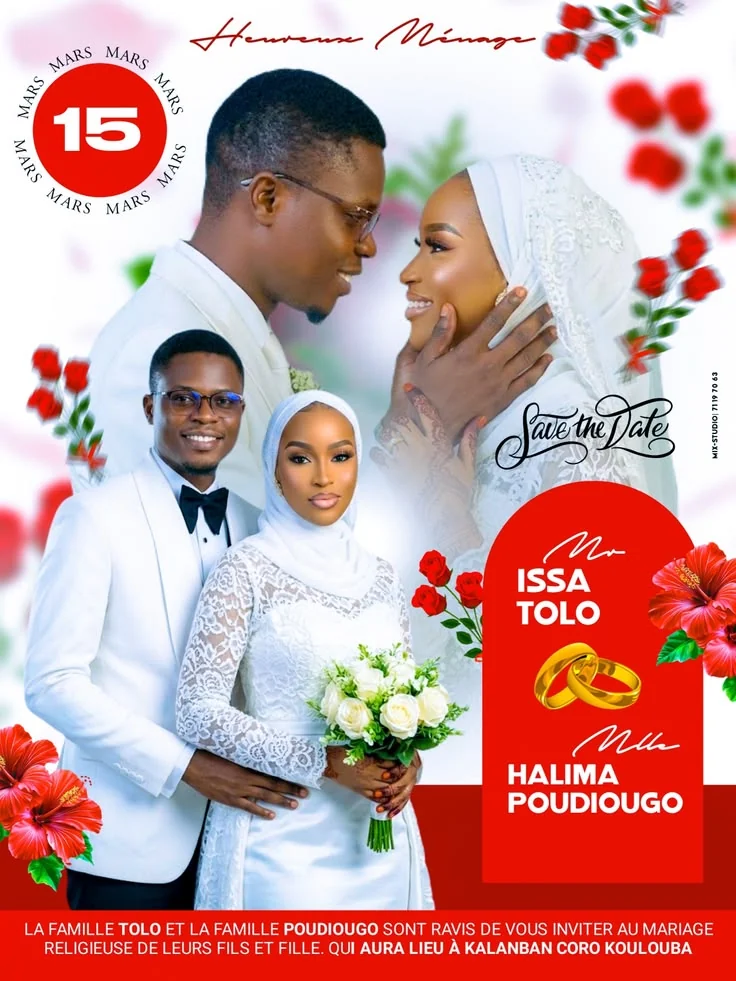
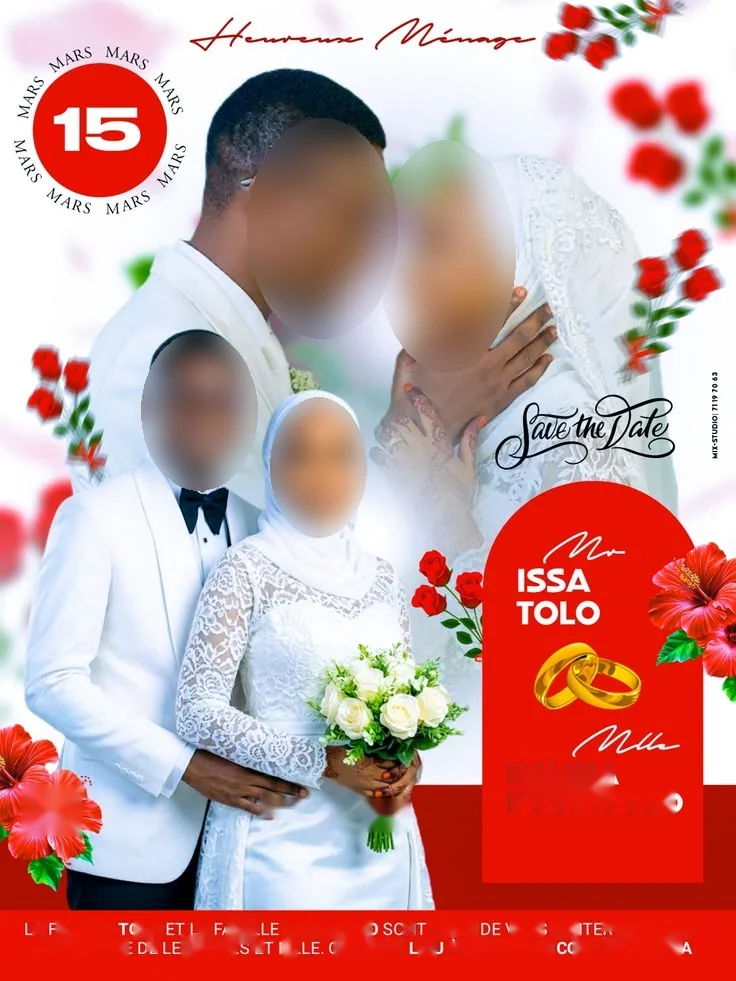
feat: anonymize domain posters and match the burger example
Strip real names, phones, dates and venues from the gallery, blur recognizable faces, and replace the delivery-based burger with the fast-food reference.

diff --git a/src/app/decouvrir/page.tsx b/src/app/decouvrir/page.tsx
@@ -76,7 +76,7 @@ export default function DiscoverPage() {
             <VisualPoster key={poster.id} title={poster.label} subtitle={poster.domaine} imageSrc={poster.src} />
           ))}
         </div>
-        <p className="text-sm text-slate-500">Chaque visuel est la référence de son dossier, affichée telle quelle.</p>
+        <p className="text-sm text-slate-500">Chaque visuel reprend la référence de son dossier, sans nom, numéro ni date réelle.</p>
       </section>
 
       <section className="grid gap-4 lg:grid-cols-2">
@@ -87,13 +87,13 @@ export default function DiscoverPage() {
             <div className="rounded-2xl border border-dashed border-slate-200 bg-slate-50 p-4">
               <p className="text-[11px] font-semibold uppercase tracking-wide text-slate-400">Avant</p>
               <p className="mt-3 font-mono text-sm leading-relaxed text-slate-500">
-                Promo ce weekend, burger + boisson, 5000 FCFA, appelle ce numero.
+                Fast food, burgers, pizzas, paninis, sur place ou à emporter, appelle ce numero.
               </p>
             </div>
             <VisualPoster
-              title="PROMO CE WEEKEND"
-              subtitle="Burger + boisson"
-              meta="5 000 FCFA"
+              title="BURGERS"
+              subtitle="Sur place ou à emporter"
+              meta="Avenue des Manguiers"
               imageSrc="/creations/promo-burger.webp"
               className="min-h-[220px]"
             />

diff --git a/src/app/creations/page.tsx b/src/app/creations/page.tsx
@@ -17,7 +17,7 @@ export default function CreationsPage() {
         <div>
           <h1 className="text-3xl font-extrabold">Créations</h1>
           <p className="mt-2 max-w-xl text-slate-600">
-            {posters.length} domaines. Chaque affiche est la référence choisie dans son dossier Supabase, sans redessin : même image, même texte, même police, même fond.
+            {posters.length} domaines. Chaque affiche garde la photo et la composition de sa référence. Les noms, numéros, dates et lieux réels sont retirés. Les visages, surtout celui de l’anniversaire, sont floutés.
           </p>
         </div>
         <Link href="/create" className="btn-primary">
@@ -37,7 +37,7 @@ export default function CreationsPage() {
         ))}
       </div>
       <p className="text-sm text-slate-500">
-        22 dossiers. Aucune de ces affiches n’a été redessinée.
+        22 dossiers. Les coordonnées personnelles des références ne sont pas affichées.
       </p>
     </div>
   );

diff --git a/src/components/payment-button.tsx b/src/components/payment-button.tsx
@@ -46,7 +46,7 @@ export function CheckoutForm({ planCode, planName, priceFcfa, mintAmount }: Prop
         </p>
       </div>
       <p className="text-sm text-slate-600">
-        La page Money Fusion demande ensuite le pays et le numéro, puis le moyen de paiement.
+        La page Money Fusion demande le pays, puis les moyens de ce pays. La France n'est pas dans leur catalogue, donc seule la crypto s'affiche. Un pays couvert, comme la Côte d'Ivoire ou le Sénégal, montre ses moyens locaux.
       </p>
       <button type="button" onClick={startPayment} disabled={loading} className="btn-primary w-full">
         {loading ? "Redirection…" : "Payer avec Money Fusion"}
